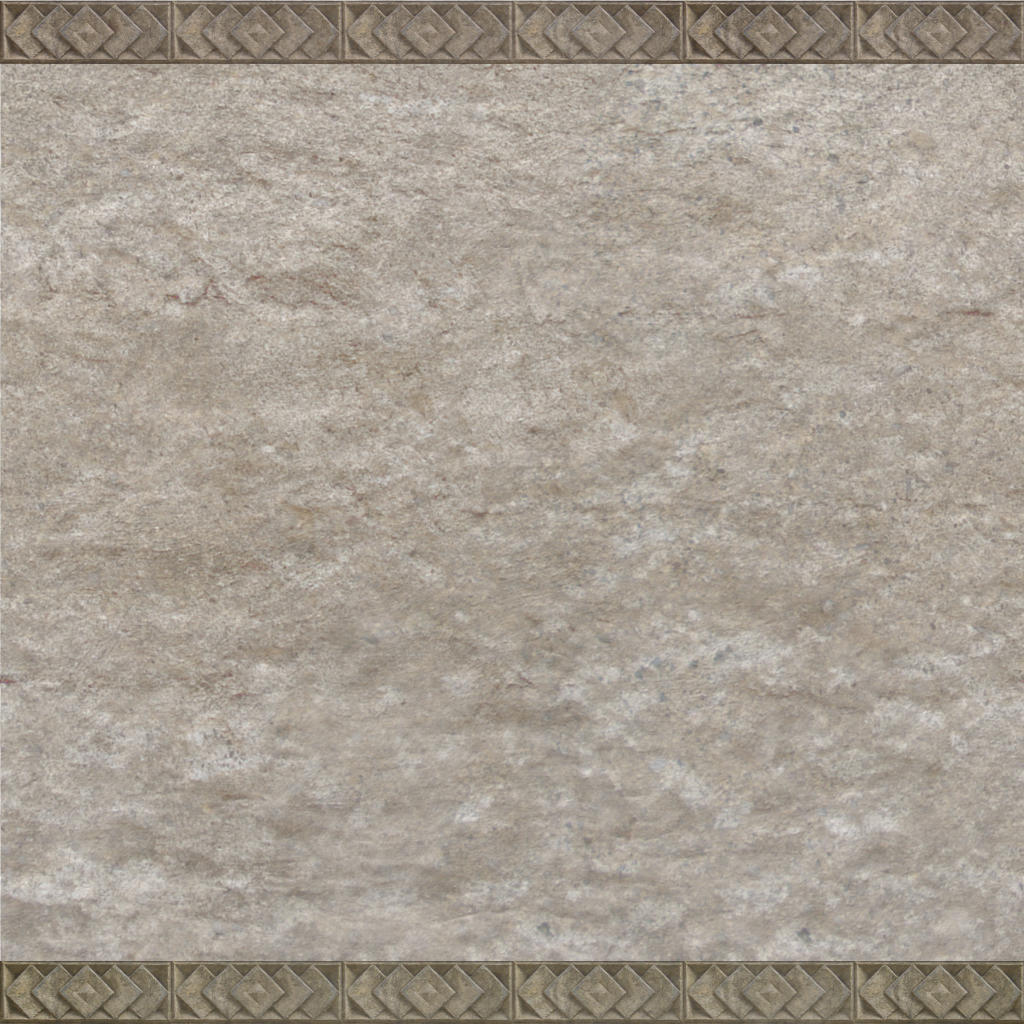
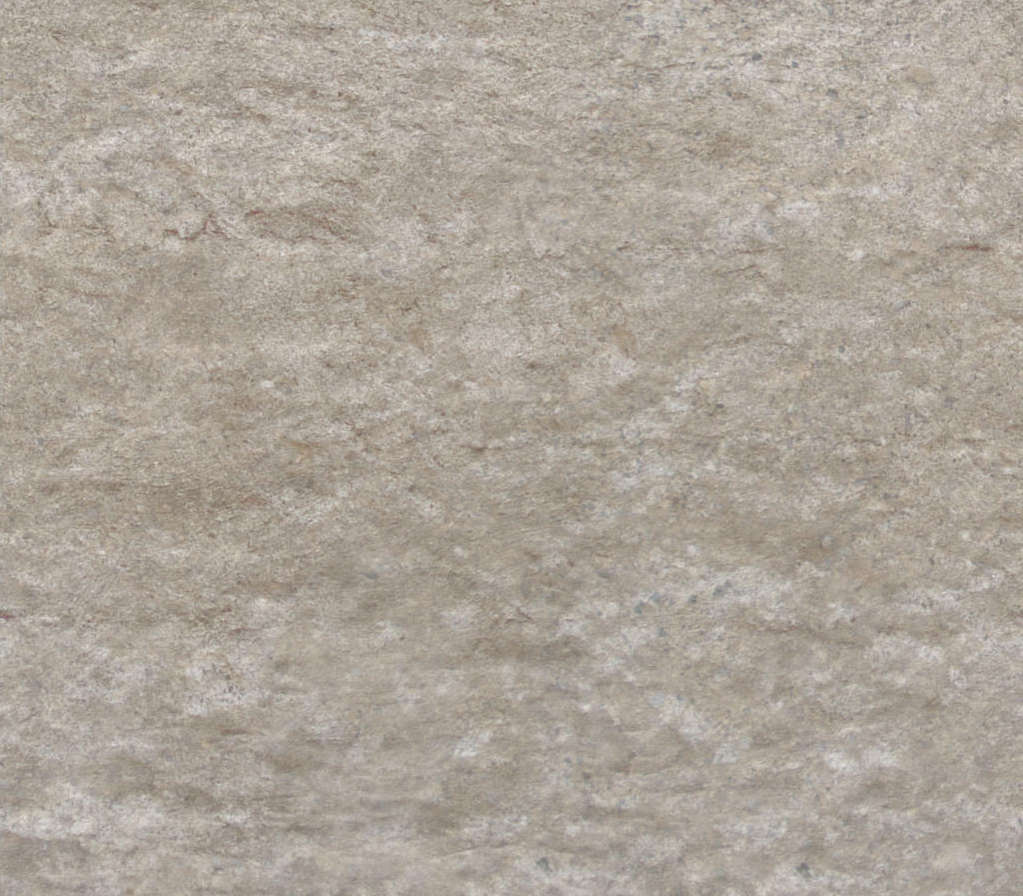
Make the border graphic always stay the same size; more CSS tweaks

diff --git a/static/css/style.css b/static/css/style.css
@@ -1,21 +1,28 @@
 @import url(https://fonts.googleapis.com/css?family=Mirza:400,500,700&subset=latin,latin-ext);
 body {
   background-image: url(/static/images/sf_dustywall02.jpg);
-  background-size: cover;
   font-family: 'Mirza', serif;
   font-weight: 400;
-  font-size: 20px; }
+  font-size: 20px;
+  line-height: 1.25; }
 
 h1 {
   font-size: 44px;
   margin-top: 15px;
   margin-bottom: 15px; }
 
+h2 {
+  margin-top: 10px; }
+
 .container {
-  margin-top: 80px;
   background-image: url(/static/images/parchment_alpha.png);
   background-size: 100% 100%;
-  padding: 30px 45px; }
+  padding: 40px 60px; }
+
+.page-border {
+  background-image: url(/static/images/sf_dustywall02_border.jpg);
+  background-repeat: repeat-x;
+  height: 48px; }
 
 .status-widget {
   border: 1px solid #999;
@@ -36,7 +43,7 @@ h1 {
 
 .history {
   border: 1px solid #999;
-  height: 550px;
+  height: 500px;
   overflow-y: auto;
   padding: 12px; }
   .history p {

diff --git a/static/scss/style.scss b/static/scss/style.scss
@@ -2,10 +2,10 @@
 
 body {
   background-image: url(/static/images/sf_dustywall02.jpg);
-  background-size: cover;
   font-family: 'Mirza', serif;
   font-weight: 400;
   font-size: 20px;
+  line-height: 1.25;
 }
 
 h1 {
@@ -14,11 +14,20 @@ h1 {
   margin-bottom: 15px;
 }
 
+h2 {
+  margin-top: 10px;
+}
+
 .container {
-  margin-top: 80px;
   background-image: url(/static/images/parchment_alpha.png);
   background-size: 100% 100%;
-  padding: 30px 45px;
+  padding: 40px 60px;
+}
+
+.page-border {
+  background-image: url(/static/images/sf_dustywall02_border.jpg);
+  background-repeat: repeat-x;
+  height: 48px;
 }
 
 .status-widget {
@@ -51,7 +60,7 @@ h1 {
 
 .history {
   border: 1px solid #999;
-  height: 550px;
+  height: 500px;
   overflow-y: auto;
   padding: 12px;
 

diff --git a/static/core/components/adventure.component.ts b/static/core/components/adventure.component.ts
@@ -13,6 +13,7 @@ import {SellItemsComponent} from "../components/sell-items.component";
 @Component({
   selector: "adventure",
   template: `
+<div class="page-border">&nbsp;</div>
 <div class="container" *ngIf="game">
   <h1>{{game_title}}</h1>
   <h2>{{game.name}}</h2>
@@ -29,6 +30,7 @@ import {SellItemsComponent} from "../components/sell-items.component";
     </div>
   </div>
 </div>
+<div class="page-border">&nbsp;</div>
   `,
   directives: [CommandPromptComponent, HistoryComponent, StatusComponent, SellItemsComponent]
 })

diff --git a/static/main-hall/components/main-hall.component.ts b/static/main-hall/components/main-hall.component.ts
@@ -4,10 +4,12 @@ import { ROUTER_DIRECTIVES }  from '@angular/router';
 @Component({
   selector: "main-hall",
   template: `
+<div class="page-border">&nbsp;</div>
 <div class="container">
   <h1>{{game_title}}</h1>
   <router-outlet></router-outlet>
 </div>
+<div class="page-border">&nbsp;</div>
   `,
   directives: [ROUTER_DIRECTIVES]
 })
